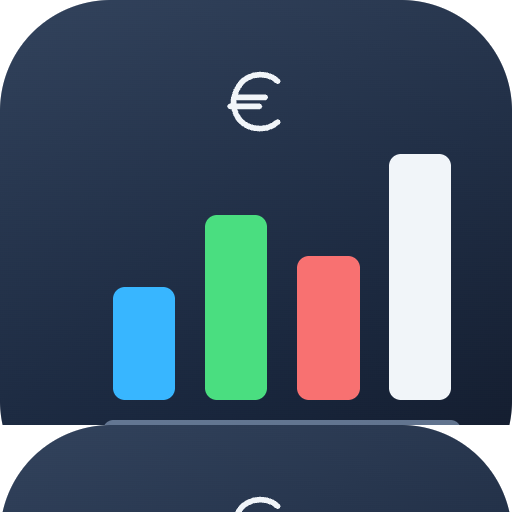
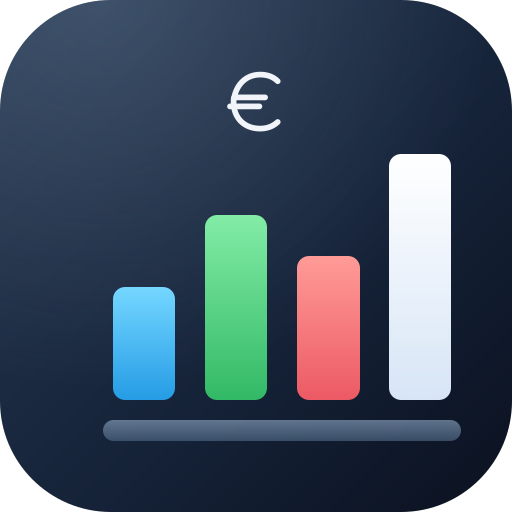
Pulir el icono de Finanzas y exportarlo directamente desde el vector

diff --git a/sw.js b/sw.js
@@ -2,19 +2,19 @@
 // y también sin conexión. Los datos (Firestore), el login (Google) y las cotizaciones (prices.json) nunca pasan por aquí.
 //
 // Sube la versión de CACHE cada vez que cambie la lista PRECACHE (por ejemplo al actualizar Chart.js o Firebase).
-const CACHE = "finanzas-v10";
+const CACHE = "finanzas-v11";
 const PRECACHE = [
   "./",
   "./index.html",
   "./firebase-config.js",
   "./push-config.js",
-  "./manifest.webmanifest?v=10",
+  "./manifest.webmanifest?v=11",
   "./icon-192.png",
-  "./icon-192.png?v=10",
-  "./icon-512.png?v=10",
-  "./icon-maskable.png?v=10",
+  "./icon-192.png?v=11",
+  "./icon-512.png?v=11",
+  "./icon-maskable.png?v=11",
   "./badge-96.png",
-  "./apple-touch-icon.png?v=10",
+  "./apple-touch-icon.png?v=11",
   "https://cdnjs.cloudflare.com/ajax/libs/Chart.js/4.5.1/chart.umd.min.js",
   "https://cdnjs.cloudflare.com/ajax/libs/limonte-sweetalert2/11.14.5/sweetalert2.all.min.js",
   "https://www.gstatic.com/firebasejs/12.19.0/firebase-app.js",

diff --git a/index.html b/index.html
@@ -6,9 +6,9 @@
 <meta name="color-scheme" content="light dark">
 <meta name="theme-color" media="(prefers-color-scheme: light)" content="#0f172a">
 <meta name="theme-color" media="(prefers-color-scheme: dark)" content="#0b1120">
-<link rel="manifest" href="manifest.webmanifest?v=10">
-<link rel="icon" href="icon-192.png?v=10" type="image/png">
-<link rel="apple-touch-icon" sizes="180x180" href="apple-touch-icon.png?v=10">
+<link rel="manifest" href="manifest.webmanifest?v=11">
+<link rel="icon" href="icon-192.png?v=11" type="image/png">
+<link rel="apple-touch-icon" sizes="180x180" href="apple-touch-icon.png?v=11">
 <meta name="apple-mobile-web-app-capable" content="yes">
 <meta name="apple-mobile-web-app-status-bar-style" content="black-translucent">
 <meta name="apple-mobile-web-app-title" content="Mis Finanzas">
